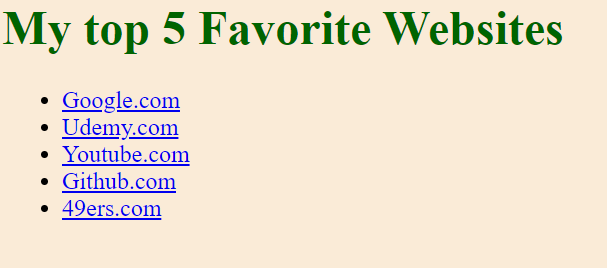
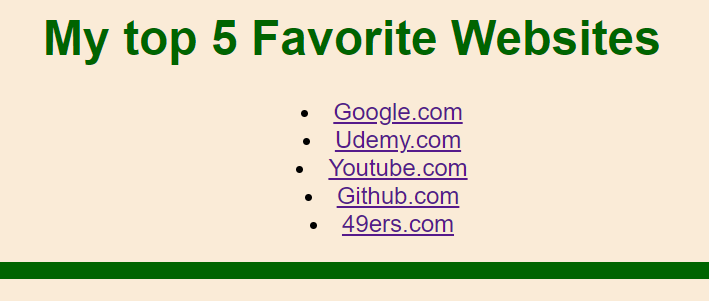
Add files via upload

diff --git a/public/Directory/index.html b/public/Directory/index.html
@@ -1,14 +1,18 @@
 <head>
     <title>Top 5</title>
+    <link href="./style.css" rel="stylesheet"/>
 </head>
-<body style=background-color:#FAEBD7>
-<h1><font color="darkgreen">My top 5 Favorite Websites</font></h1>
+<body>
+<h1>My top 5 Favorite Websites</h1>
 <!-- Write your code below -->
-<ul>
+<ul draggable="true">
     <li><a href="https://www.google.com/">Google.com</a></li>
     <li><a href="https://www.udemy.com/">Udemy.com</a></li>
     <li><a href="https://www.youtube.com/">Youtube.com</a></li>
     <li><a href="https://github.com/">Github.com</a></li>
     <li><a href="https://www.49ers.com/">49ers.com</a></li>
 </ul>
+<hr width="65%" size="12" color="darkgreen">
+<h2>PLEASE</h2>
+<p>Do Not Drag the List Items!</p>
 </body>

diff --git a/public/Directory/style.css b/public/Directory/style.css
@@ -1,0 +1,19 @@
+html {
+    background-color:#FAEBD7
+}
+h1 {
+    color:darkgreen
+}
+* {
+    text-align: center;
+    font-family: sans-serif;
+}
+ul {
+    text-align: center;
+    list-style-position: inside;
+}
+p {
+    color:red;  
+}
+hr {border-radius: 5px;
+}
